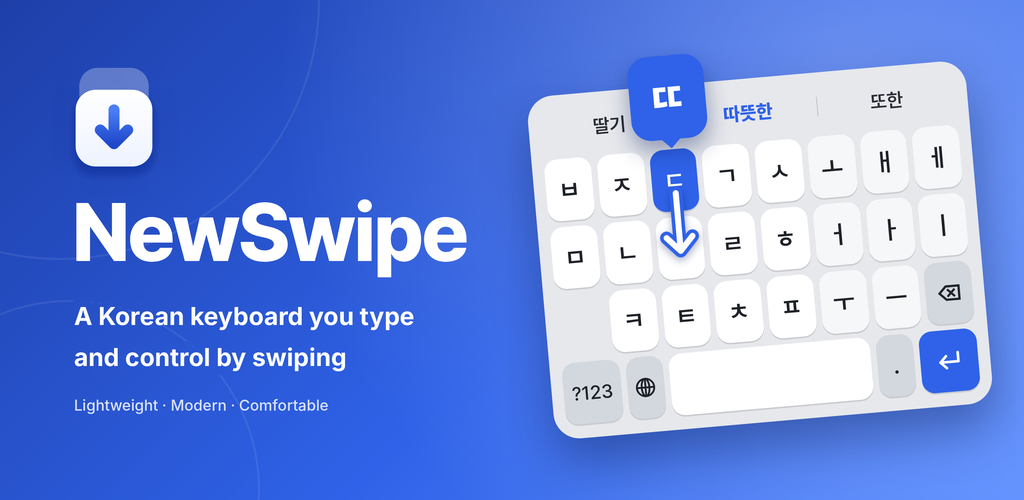
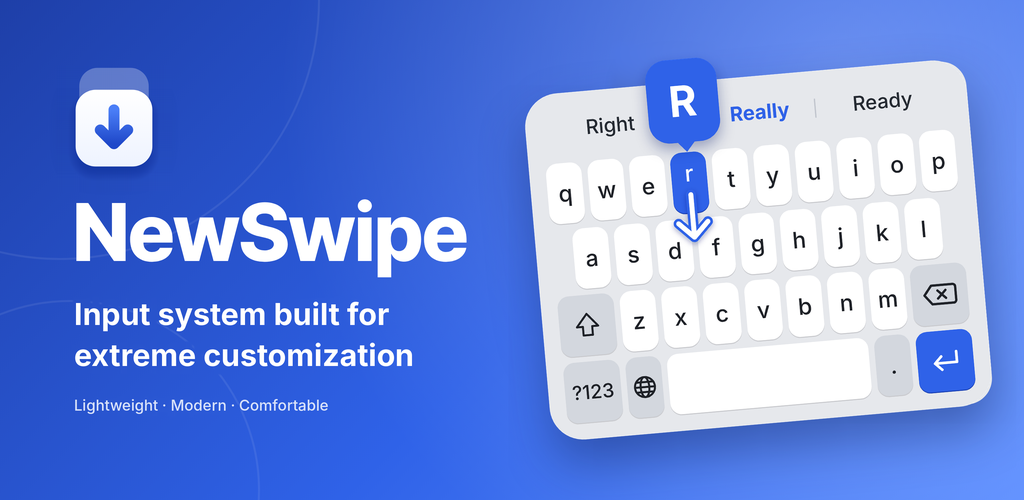
English feature graphic: new tagline and an English keyboard
The tagline now reads 'Input system built for extreme customization', and the
keyboard mock-up is an English QWERTY keyboard showing a swipe down on r to
type R. The generator draws the keyboard in HTML with Playwright and tilts it
to match the Korean graphic.

Claude-Session: https://claude.ai/code/session_01AwdWyHzCJdtweSgU41T39b

diff --git a/tools/generate_feature_graphic_en.py b/tools/generate_feature_graphic_en.py
@@ -1,17 +1,24 @@
 #!/usr/bin/env python3
 """Make the English Play Store feature graphic from the Korean one.
 
-Reads  docs/play-store/feature-graphic@3x.png (Korean tagline)
+Reads  docs/play-store/feature-graphic@3x.png (Korean)
 Writes docs/play-store/feature-graphic-en@3x.png and feature-graphic-en.png (1024x500)
 
-The Korean tagline and subline are painted out (only the text pixels, refilled from a
-smooth fit of the surrounding gradient), then the English text is drawn in the same
-place. The icon, the "NewSwipe" title and the keyboard mock-up are left as they are.
+- The Korean tagline and subline are painted out (only the text pixels, refilled from a
+  smooth fit of the surrounding gradient) and the English text is drawn in their place.
+- The Korean keyboard mock-up is painted out and replaced by an English (QWERTY) one in
+  the same style, drawn in HTML with Playwright and tilted to the same angle. It shows
+  'Swipe down for capitals': swiping r down types R.
+The icon and the "NewSwipe" title are left as they are.
 Run it again after tools/generate_launcher_icon.py --png redraws the Korean graphic.
 
-Requires: Pillow, numpy, and the Inter font (fonts-inter).
+Requires: Pillow, numpy, the Inter font (fonts-inter), and Node.js with the
+'playwright' package and a Chromium it can launch.
 """
+import json
 import os
+import subprocess
+import tempfile
 
 import numpy as np
 from PIL import Image, ImageDraw, ImageFilter, ImageFont
@@ -20,24 +27,41 @@ ROOT = os.path.dirname(os.path.dirname(os.path.abspath(__file__)))
 PLAY = os.path.join(ROOT, "docs", "play-store")
 FONT_DIR = "/usr/share/fonts/opentype/inter"
 
-TAGLINE = ["A Korean keyboard you type", "and control by swiping"]
+TAGLINE = ["Input system built for", "extreme customization"]
 SUBLINE = "Lightweight · Modern · Comfortable"
 
-CLEAR = (180, 860, 1280, 1275)      # x0, y0, x1, y1: box holding the Korean text
-LEFT = 222                          # left edge of the Korean text
-TAG_BASE = (975, 1098)              # baselines of the two tagline lines
+TEXT_CLEAR = (180, 860, 1280, 1275)  # x0, y0, x1, y1: box holding the Korean text
+LEFT = 222                           # left edge of the Korean text
+TAG_BASE = (975, 1098)               # baselines of the two tagline lines
 SUB_BASE = 1232
 TAG_COLOR = (255, 255, 255)
 SUB_COLOR = (217, 226, 249)
 
+# The keyboard mock-up in the Korean graphic: centre, size and tilt (counter-clockwise).
+KB_CENTER = (2275, 750)
+KB_SIZE = (1320, 1032)
+KB_ANGLE = 5.0
+POPUP_CLEAR = (1840, 130, 2150, 470)  # old popup and its shadow
+POPUP_FIT = (1650, 0, 2450, 470)      # backdrop fitted around it
+MARGIN = 260                         # room around the panel for the popup and shadows
+
+SUGGESTIONS = ["Right", "Really", "Ready"]  # the middle one is highlighted
+SWIPED = ("r", "R")                         # key swiped down, and what it types
+
+
+def poly_basis(h, w, oy=0, ox=0, H=None, W=None):
+    H, W = H or h, W or w
+    yy, xx = np.mgrid[oy:oy + h, ox:ox + w]
+    u, v = xx / W, yy / H
+    return np.stack([np.ones_like(u), u, v, u * u, u * v, v * v,
+                     u ** 3, v ** 3, u * u * v, u * v * v], -1)
+
 
 def clear_text(a):
-    x0, y0, x1, y1 = CLEAR
+    x0, y0, x1, y1 = TEXT_CLEAR
     reg = a[y0:y1, x0:x1]
     lum = reg.mean(2)
-    yy, xx = np.mgrid[0:y1 - y0, 0:x1 - x0]
-    u, v = xx / (x1 - x0), yy / (y1 - y0)
-    basis = np.stack([np.ones_like(u), u, v, u * u, u * v, v * v, u ** 3, v ** 3, u * u * v, u * v * v], -1)
+    basis = poly_basis(y1 - y0, x1 - x0)
     keep = np.ones(lum.shape, bool)
     for _ in range(3):  # fit the backdrop, ignoring anything much brighter than it
         coef = np.linalg.lstsq(basis[keep], reg[keep], rcond=None)[0]
@@ -46,6 +70,137 @@ def clear_text(a):
     mask = Image.fromarray(((~keep) * 255).astype(np.uint8)).filter(ImageFilter.MaxFilter(9))
     m = (np.asarray(mask.filter(ImageFilter.GaussianBlur(2))) / 255.0)[..., None]
     a[y0:y1, x0:x1] = reg * (1 - m) + fit * m
+
+
+def clear_keyboard(a):
+    """Paint out the old popup where it sticks out above the panel.
+
+    The new panel is drawn exactly over the old one (whose soft shadow is kept), so only the
+    old popup needs removing: it is refilled from a smooth fit of the backdrop around it."""
+    x0, y0, x1, y1 = POPUP_FIT
+    px0, py0, px1, py1 = POPUP_CLEAR
+    reg = a[y0:y1, x0:x1]
+    basis = poly_basis(y1 - y0, x1 - x0)
+    keep = np.ones(reg.shape[:2], bool)
+    keep[py0 - y0:py1 - y0, px0 - x0:px1 - x0] = False
+    lum = reg.mean(2)
+    keep &= lum < 200  # not the panel
+    coef = np.linalg.lstsq(basis[keep], reg[keep], rcond=None)[0]
+    fit = basis @ coef
+    m = Image.new("L", (x1 - x0, y1 - y0), 0)
+    ImageDraw.Draw(m).rectangle((px0 - x0, py0 - y0, px1 - x0, py1 - y0), fill=255)
+    m = (np.asarray(m.filter(ImageFilter.GaussianBlur(12))) / 255.0)[..., None]
+    a[y0:y1, x0:x1] = reg * (1 - m) + fit * m
+
+
+KEYBOARD_HTML = r"""<!doctype html><html><head><meta charset="utf-8"><style>
+html,body{margin:0;background:transparent}
+#stage{position:relative;width:__SW__px;height:__SH__px}
+#panel{position:absolute;left:__M__px;top:__M__px;width:__PW__px;height:__PH__px;border-radius:96px;
+  background:#E6E8EC;box-shadow:0 0 0 5px #E6E8EC}  /* covers the old panel's edge */
+.k{position:absolute;border-radius:34px;background:#fff;box-shadow:0 3px 0 #CACBCF;display:flex;
+  align-items:center;justify-content:center;font:500 68px Inter;color:#1F2228}
+.fn{background:#D3D7DE}
+.lbl{font:500 58px Inter}
+.blue{background:#2F62E8;color:#fff;box-shadow:0 3px 0 #2147B8}
+.sg{position:absolute;top:0;height:205px;display:flex;align-items:center;justify-content:center;
+  font:500 60px Inter;color:#262B33}
+.sg.hi{color:#2F62E8;font-weight:700}
+.div{position:absolute;top:78px;width:4px;height:58px;border-radius:2px;background:#C3C7CF}
+#pop{position:absolute;border-radius:62px;background:#2F62E8;color:#fff;display:flex;align-items:center;
+  justify-content:center;font:700 128px Inter;box-shadow:0 18px 40px rgba(8,26,104,.35)}
+#tail{position:absolute;width:0;height:0;border-left:26px solid transparent;border-right:26px solid transparent;
+  border-top:30px solid #2F62E8}
+svg{position:absolute;left:0;top:0;overflow:visible}
+</style></head><body><div id="stage"><div id="panel"></div></div>
+<script>
+const D = __DATA__;
+const panel = document.getElementById('panel');
+const PAD = 45, TOP = 205, KH = 182, GAP = 18, INNER = D.pw - 2 * PAD, U = (INNER + GAP) / 10;
+const ICON = {
+  shift: '<path d="M0,-34 L32,4 H14 V30 H-14 V4 H-32 Z" fill="none" stroke="#1F2228" stroke-width="6" stroke-linejoin="round"/>',
+  back: '<path d="M-46,0 L-24,-28 H40 a8,8 0 0 1 8,8 V20 a8,8 0 0 1 -8,8 H-24 Z" fill="none" stroke="#1F2228" stroke-width="7" stroke-linejoin="round"/><path d="M-6,-12 L18,12 M18,-12 L-6,12" stroke="#1F2228" stroke-width="7" stroke-linecap="round"/>',
+  globe: '<g fill="none" stroke="#1F2228" stroke-width="6"><circle r="30"/><ellipse rx="13" ry="30"/><path d="M-30,0 H30 M-26,-15 H26 M-26,15 H26"/></g>',
+  enter: '<path d="M34,-26 V6 H-30 M-12,-14 L-32,6 L-12,26" fill="none" stroke="#fff" stroke-width="8" stroke-linecap="round" stroke-linejoin="round"/>',
+};
+const keys = [];
+['qwertyuiop', 'asdfghjkl'].forEach((r, ri) => [...r].forEach((c, i) => keys.push({ x: (ri ? 0.5 : 0) + i, w: 1, row: ri, label: c })));
+keys.push({ x: 0, w: 1.5, row: 2, icon: 'shift', fn: 1 });
+[...'zxcvbnm'].forEach((c, i) => keys.push({ x: 1.5 + i, w: 1, row: 2, label: c }));
+keys.push({ x: 8.5, w: 1.5, row: 2, icon: 'back', fn: 1 });
+keys.push({ x: 0, w: 1.5, row: 3, label: '?123', fn: 1, small: 1 });
+keys.push({ x: 1.5, w: 1, row: 3, icon: 'globe', fn: 1 });
+keys.push({ x: 2.5, w: 5, row: 3, label: '' });
+keys.push({ x: 7.5, w: 1, row: 3, label: '.', fn: 1 });
+keys.push({ x: 8.5, w: 1.5, row: 3, icon: 'enter', blue: 1 });
+let swiped;
+for (const k of keys) {
+  const el = document.createElement('div');
+  const x = PAD + k.x * U, y = TOP + k.row * (KH + GAP), w = k.w * U - GAP;
+  const hit = k.label === D.swiped[0];
+  el.className = 'k' + (k.fn ? ' fn' : '') + (k.blue || hit ? ' blue' : '') + (k.small ? ' lbl' : '');
+  if (hit) el.style.alignItems = 'flex-start', el.style.paddingTop = '22px', el.style.boxSizing = 'border-box';
+  Object.assign(el.style, { left: x + 'px', top: y + 'px', width: w + 'px', height: KH + 'px' });
+  if (k.icon) el.innerHTML = `<svg width="${w}" height="${KH}"><g transform="translate(${w / 2},${KH / 2})">${ICON[k.icon]}</g></svg>`;
+  else el.textContent = k.label;
+  panel.appendChild(el);
+  if (hit) swiped = { x, y, w };
+}
+// Suggestion strip: three slots with dividers between them.
+const slot = INNER / 3;
+D.sugg.forEach((s, i) => {
+  const el = document.createElement('div');
+  el.className = 'sg' + (i === 1 ? ' hi' : '');
+  Object.assign(el.style, { left: PAD + i * slot + (i === 1 ? 40 : 0) + 'px', width: slot + 'px' });
+  el.textContent = s;
+  panel.appendChild(el);
+  if (i) { const d = document.createElement('div'); d.className = 'div'; d.style.left = PAD + i * slot + 'px'; panel.appendChild(d); }
+});
+// Popup above the swiped key, and the swipe-down arrow.
+const cx = swiped.x + swiped.w / 2, PW = 214, PH = 250;
+const pop = document.createElement('div'); pop.id = 'pop'; pop.textContent = D.swiped[1];
+Object.assign(pop.style, { left: cx - PW / 2 + 'px', top: swiped.y - 30 - PH + 'px', width: PW + 'px', height: PH + 'px' });
+const tail = document.createElement('div'); tail.id = 'tail';
+Object.assign(tail.style, { left: cx - 26 + 'px', top: swiped.y - 31 + 'px' });
+panel.append(pop, tail);
+const y0 = swiped.y + 128, y1 = swiped.y + KH + GAP + 56;
+const path = `M${cx},${y0} V${y1} M${cx - 44},${y1 - 44} L${cx},${y1} L${cx + 44},${y1 - 44}`;
+const svg = document.createElementNS('http://www.w3.org/2000/svg', 'svg');
+svg.setAttribute('width', D.pw); svg.setAttribute('height', D.ph);
+svg.innerHTML = `<defs><filter id="sh" x="-50%" y="-50%" width="200%" height="200%"><feDropShadow dx="0" dy="6" stdDeviation="8" flood-color="#081A68" flood-opacity=".35"/></filter></defs>
+  <g filter="url(#sh)" fill="none" stroke-linecap="round" stroke-linejoin="round">
+  <path d="${path}" stroke="#2F62E8" stroke-width="30"/><path d="${path}" stroke="#fff" stroke-width="15"/></g>`;
+panel.appendChild(svg);
+</script></body></html>"""
+
+RENDER_JS = r"""
+const { chromium } = require('playwright');
+const [html, out, w, h] = process.argv.slice(2);
+(async () => {
+  const b = await chromium.launch();
+  const p = await b.newPage({ viewport: { width: +w, height: +h }, deviceScaleFactor: 1 });
+  await p.goto('file://' + html);
+  await p.evaluate(() => document.fonts.ready);
+  await p.screenshot({ path: out, omitBackground: true });
+  await b.close();
+})();
+"""
+
+
+def render_keyboard(tmp):
+    pw, ph = KB_SIZE
+    sw, sh = pw + 2 * MARGIN, ph + 2 * MARGIN
+    data = {"pw": pw, "ph": ph, "sugg": SUGGESTIONS, "swiped": list(SWIPED)}
+    html = (KEYBOARD_HTML.replace("__DATA__", json.dumps(data)).replace("__SW__", str(sw))
+            .replace("__SH__", str(sh)).replace("__M__", str(MARGIN))
+            .replace("__PW__", str(pw)).replace("__PH__", str(ph)))
+    html_path, js_path, png = (os.path.join(tmp, n) for n in ("kb.html", "render.js", "kb.png"))
+    with open(html_path, "w", encoding="utf-8") as f:
+        f.write(html)
+    with open(js_path, "w") as f:
+        f.write(RENDER_JS)
+    subprocess.run(["node", js_path, html_path, png, str(sw), str(sh)], check=True)
+    return Image.open(png).convert("RGBA").rotate(KB_ANGLE, Image.BICUBIC, expand=True)
 
 
 def fit_size(font_path, lines, max_width, start):
@@ -62,15 +217,22 @@ def main():
     src = Image.open(os.path.join(PLAY, "feature-graphic@3x.png")).convert("RGB")
     a = np.asarray(src).astype(float)
     clear_text(a)
-    img = Image.fromarray(np.clip(a + 0.5, 0, 255).astype(np.uint8))
-    d = ImageDraw.Draw(img)
+    clear_keyboard(a)
+    img = Image.fromarray(np.clip(a + 0.5, 0, 255).astype(np.uint8)).convert("RGBA")
 
+    with tempfile.TemporaryDirectory() as tmp:
+        kb = render_keyboard(tmp)
+    cx, cy = KB_CENTER
+    img.alpha_composite(kb, (round(cx - kb.width / 2), round(cy - kb.height / 2)))
+
+    d = ImageDraw.Draw(img)
     tag = fit_size(os.path.join(FONT_DIR, "Inter-Bold.otf"), TAGLINE, 1250 - LEFT, 104)
     for text, base in zip(TAGLINE, TAG_BASE):
         d.text((LEFT, base), text, font=tag, fill=TAG_COLOR, anchor="ls")
     sub = fit_size(os.path.join(FONT_DIR, "Inter-Medium.otf"), [SUBLINE], 1000 - LEFT, 62)
     d.text((LEFT, SUB_BASE), SUBLINE, font=sub, fill=SUB_COLOR, anchor="ls")
 
+    img = img.convert("RGB")
     img.save(os.path.join(PLAY, "feature-graphic-en@3x.png"), optimize=True)
     img.resize((src.width // 3, src.height // 3), Image.LANCZOS).save(
         os.path.join(PLAY, "feature-graphic-en.png"), optimize=True)

diff --git a/README.en.md b/README.en.md
@@ -1,5 +1,5 @@
 <p align="center">
-  <img src="docs/play-store/feature-graphic-en@3x.png" alt="NewSwipe — a Korean keyboard you type and control by swiping" width="100%" />
+  <img src="docs/play-store/feature-graphic-en@3x.png" alt="NewSwipe — Input system built for extreme customization" width="100%" />
 </p>
 
 [한국어](README.md) · **English**
